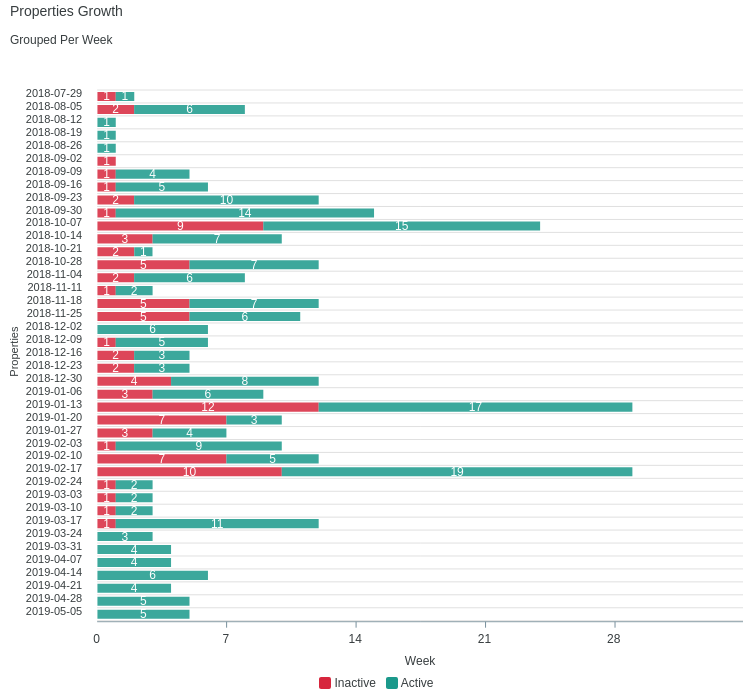
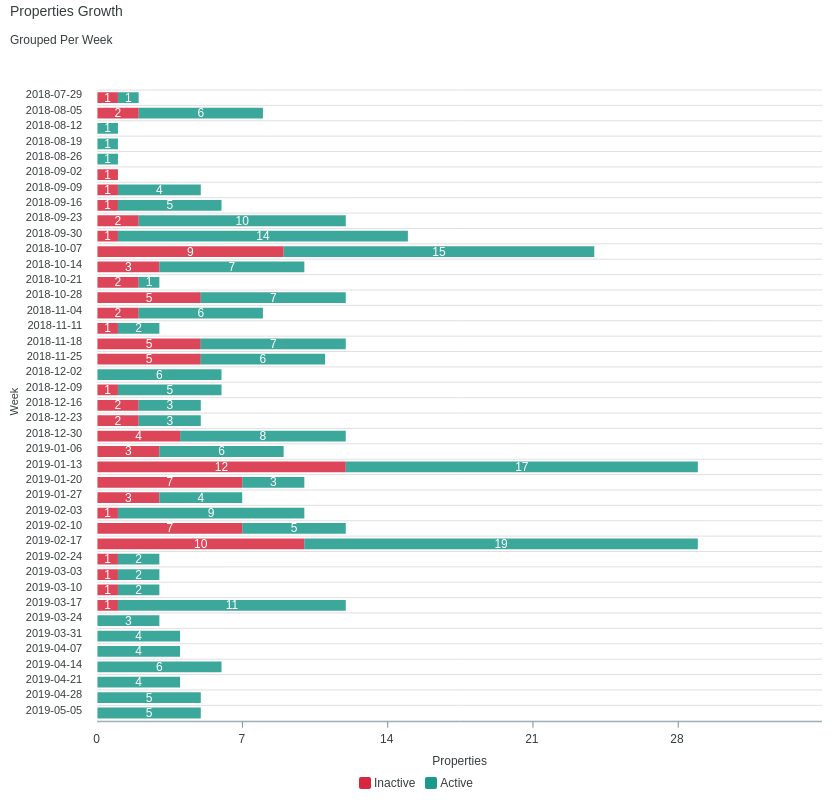
Fix bar_chart y as x and change its example

Changed region(s): [[0.0, 0.09, 0.9774, 0.93], [0.0, 0.0, 0.1527, 0.06], [0.4276, 0.93, 0.5803, 0.99]]

diff --git a/lib/apexcharts/options_builder.rb b/lib/apexcharts/options_builder.rb
@@ -24,7 +24,11 @@ module Apexcharts
 
     def initialize(x_sample, options)
       @options = options
-      @xtype = Utils::DateTime.xtype(x_sample)
+      if options[:plot_options]&.[](:bar)&.[](:horizontal)
+        @ytype = Utils::DateTime.type(x_sample)
+      else
+        @xtype = Utils::DateTime.type(x_sample)
+      end
       @built = {}
       build_options
       @built.compact!
@@ -280,7 +284,7 @@ module Apexcharts
     def build_yaxis
       yaxis = @options.delete :yaxis
       @built[:yaxis] = [{
-        type: @options.delete(:ytype),
+        type: @options.delete(:ytype){ @ytype },
         title: {
           text: @options.delete(:ytitle)
         }.compact
@@ -294,7 +298,7 @@ module Apexcharts
       end
     end
 
-    def xtype(x)
+    def type(x)
       if DateTime.iso8601(x).iso8601 == x
         'datetime'
       elsif Date.iso8601(x).iso8601 = x

diff --git a/lib/apexcharts/charts/cartesian.rb b/lib/apexcharts/charts/cartesian.rb
@@ -12,7 +12,7 @@ module Apexcharts
       @series = sanitize_data(data)
       @options = Utils::Hash.camelize_keys(
                    Utils::Hash.deep_merge(
-                     build_options(@series[:series][0][:data][0][self.class.name.end_with?("BarChart") ? :y : :x], options),
+                     build_options(@series[:series][0][:data][0][:x], options),
                      {**@series, chart: {type: chart_type}}.compact
                    )
                  )

diff --git a/lib/apexcharts/utils/date_time.rb b/lib/apexcharts/utils/date_time.rb
@@ -36,7 +36,7 @@ module Apexcharts::Utils
       input
     end
 
-    def self.xtype input
+    def self.type input
       case input
       when Time, DateTime, Date
         'datetime'

diff --git a/README.md b/README.md
@@ -82,7 +82,7 @@ Example options used for cartesian charts:
 #### Bar Chart
 
 ```erb
-<%= bar_chart(series, {**options, height: 700, theme: 'palette7'}) %>
+<%= bar_chart(series, {**options, xtitle: 'Properties', ytitle: 'Week', height: 800, theme: 'palette7'}) %>
 ```
 ![Example Bar Chart](images/bar_chart.png)
 
